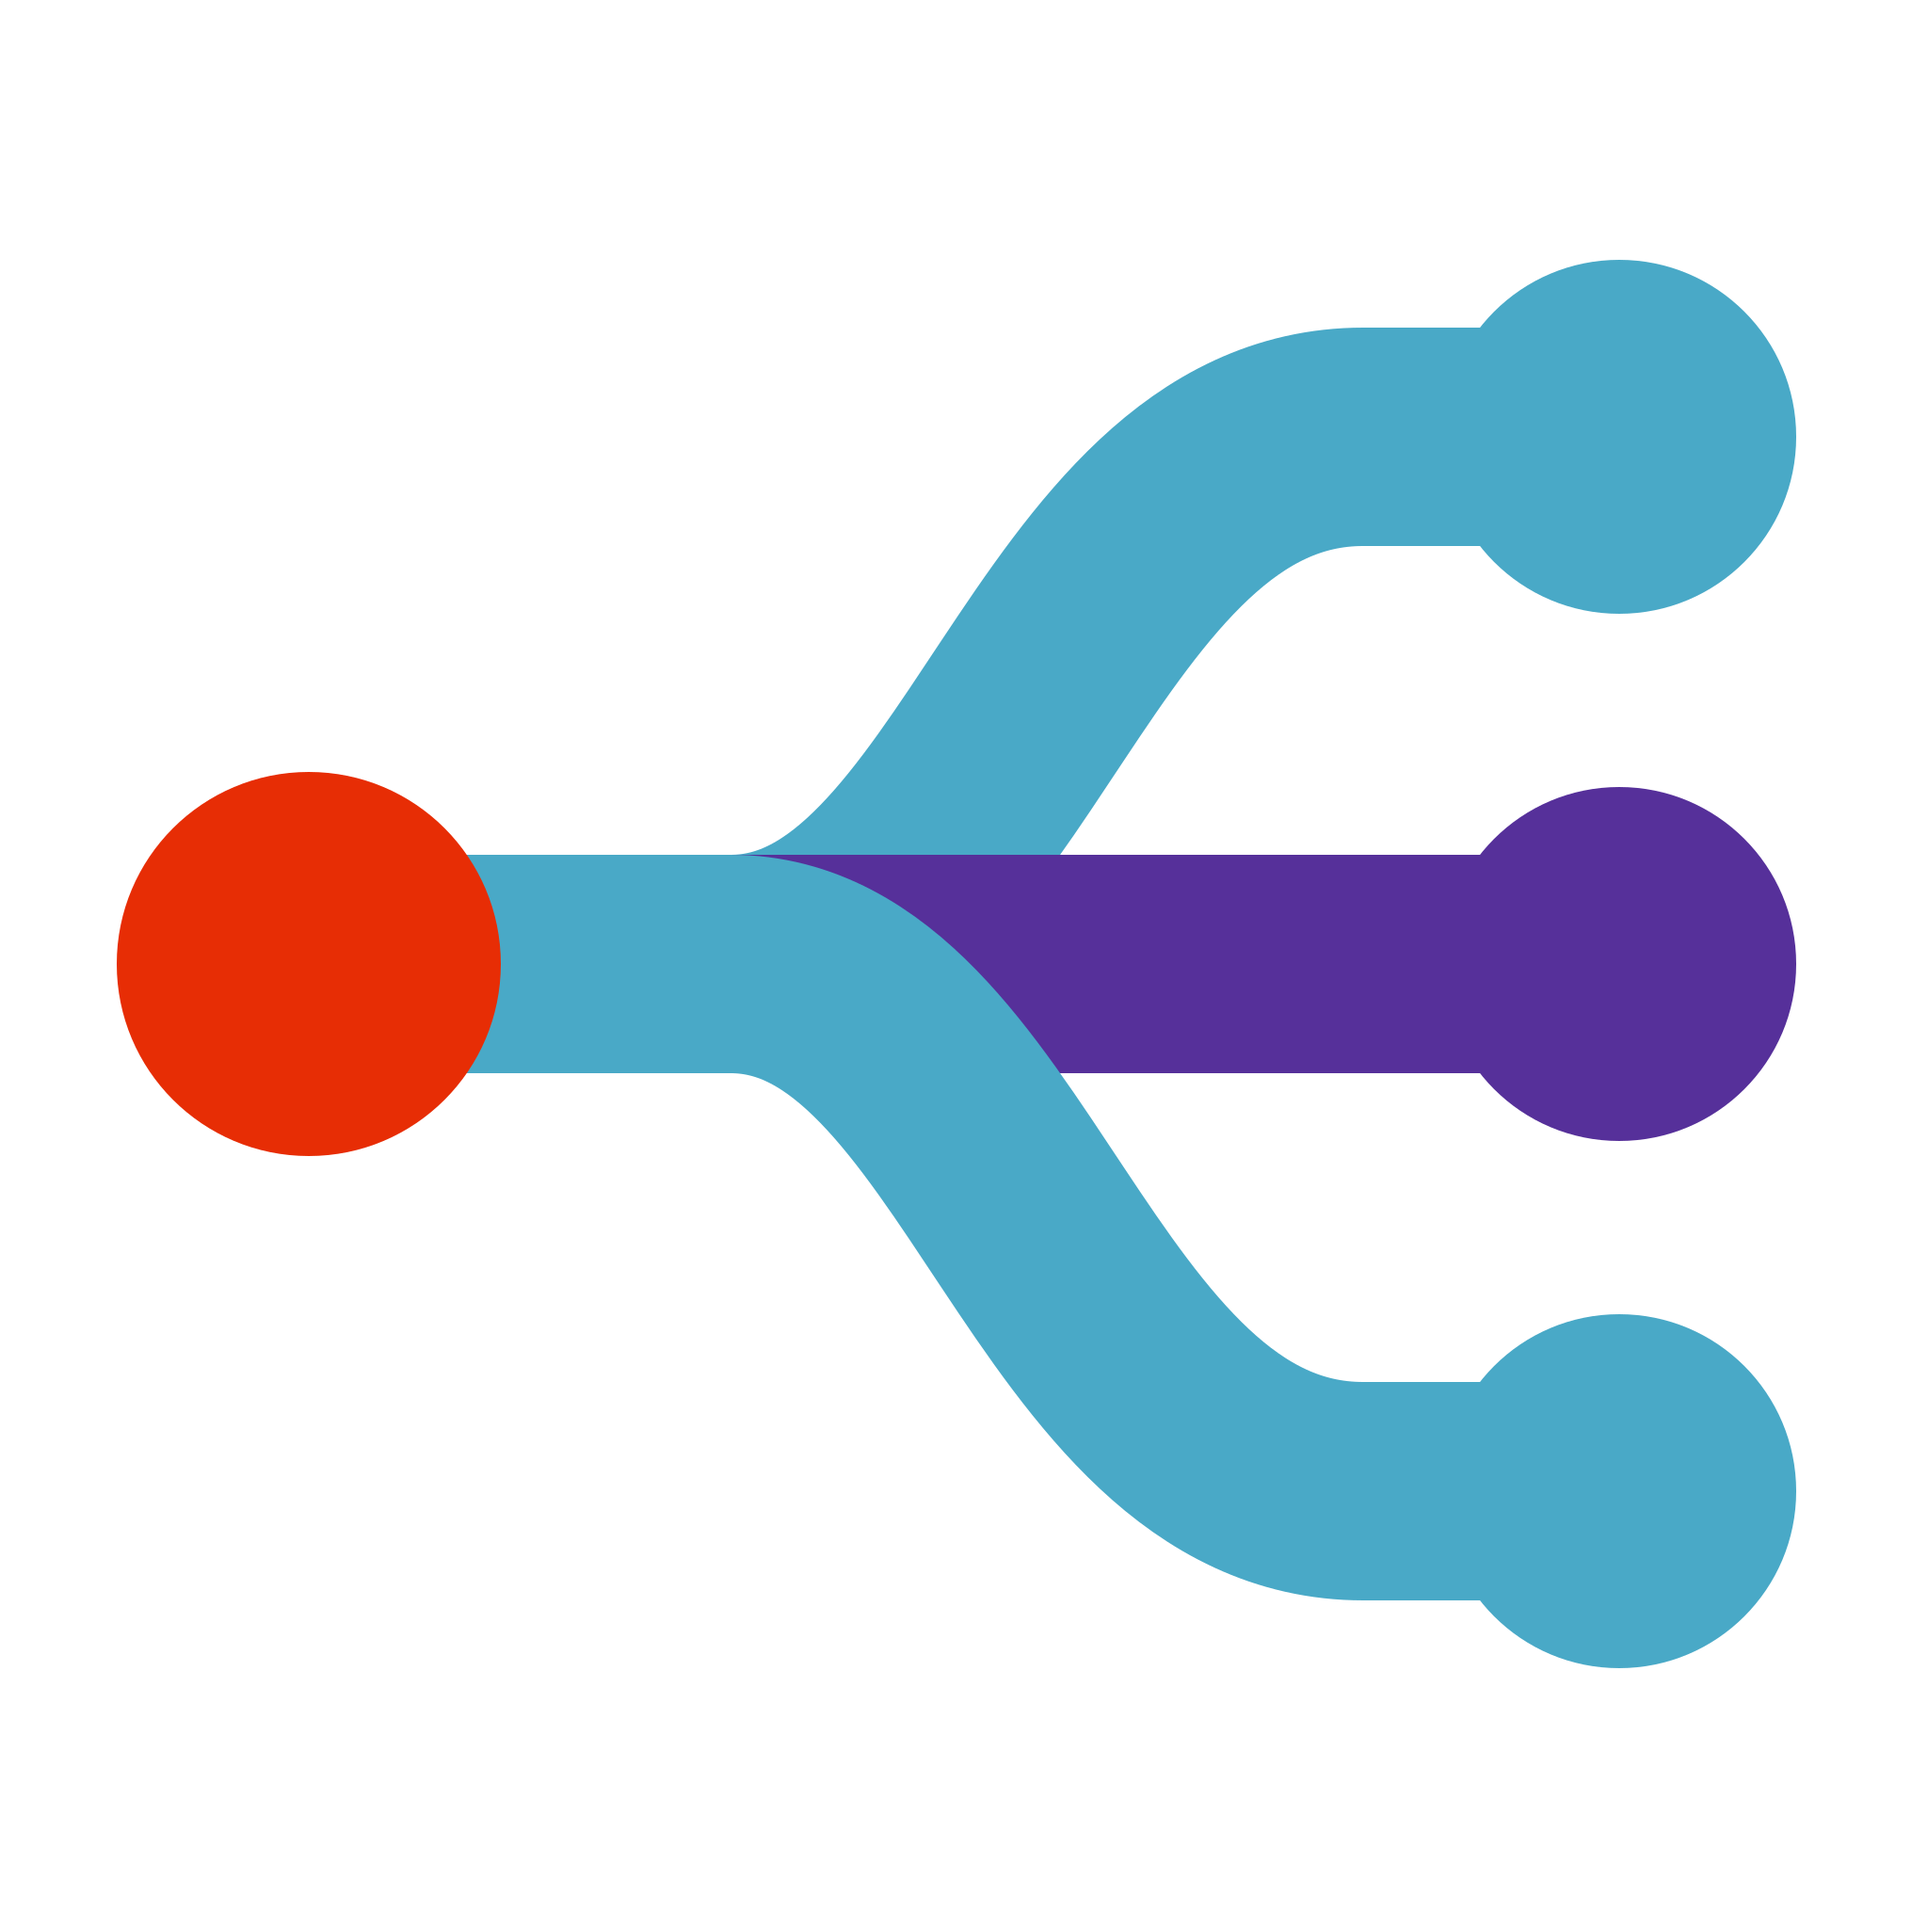
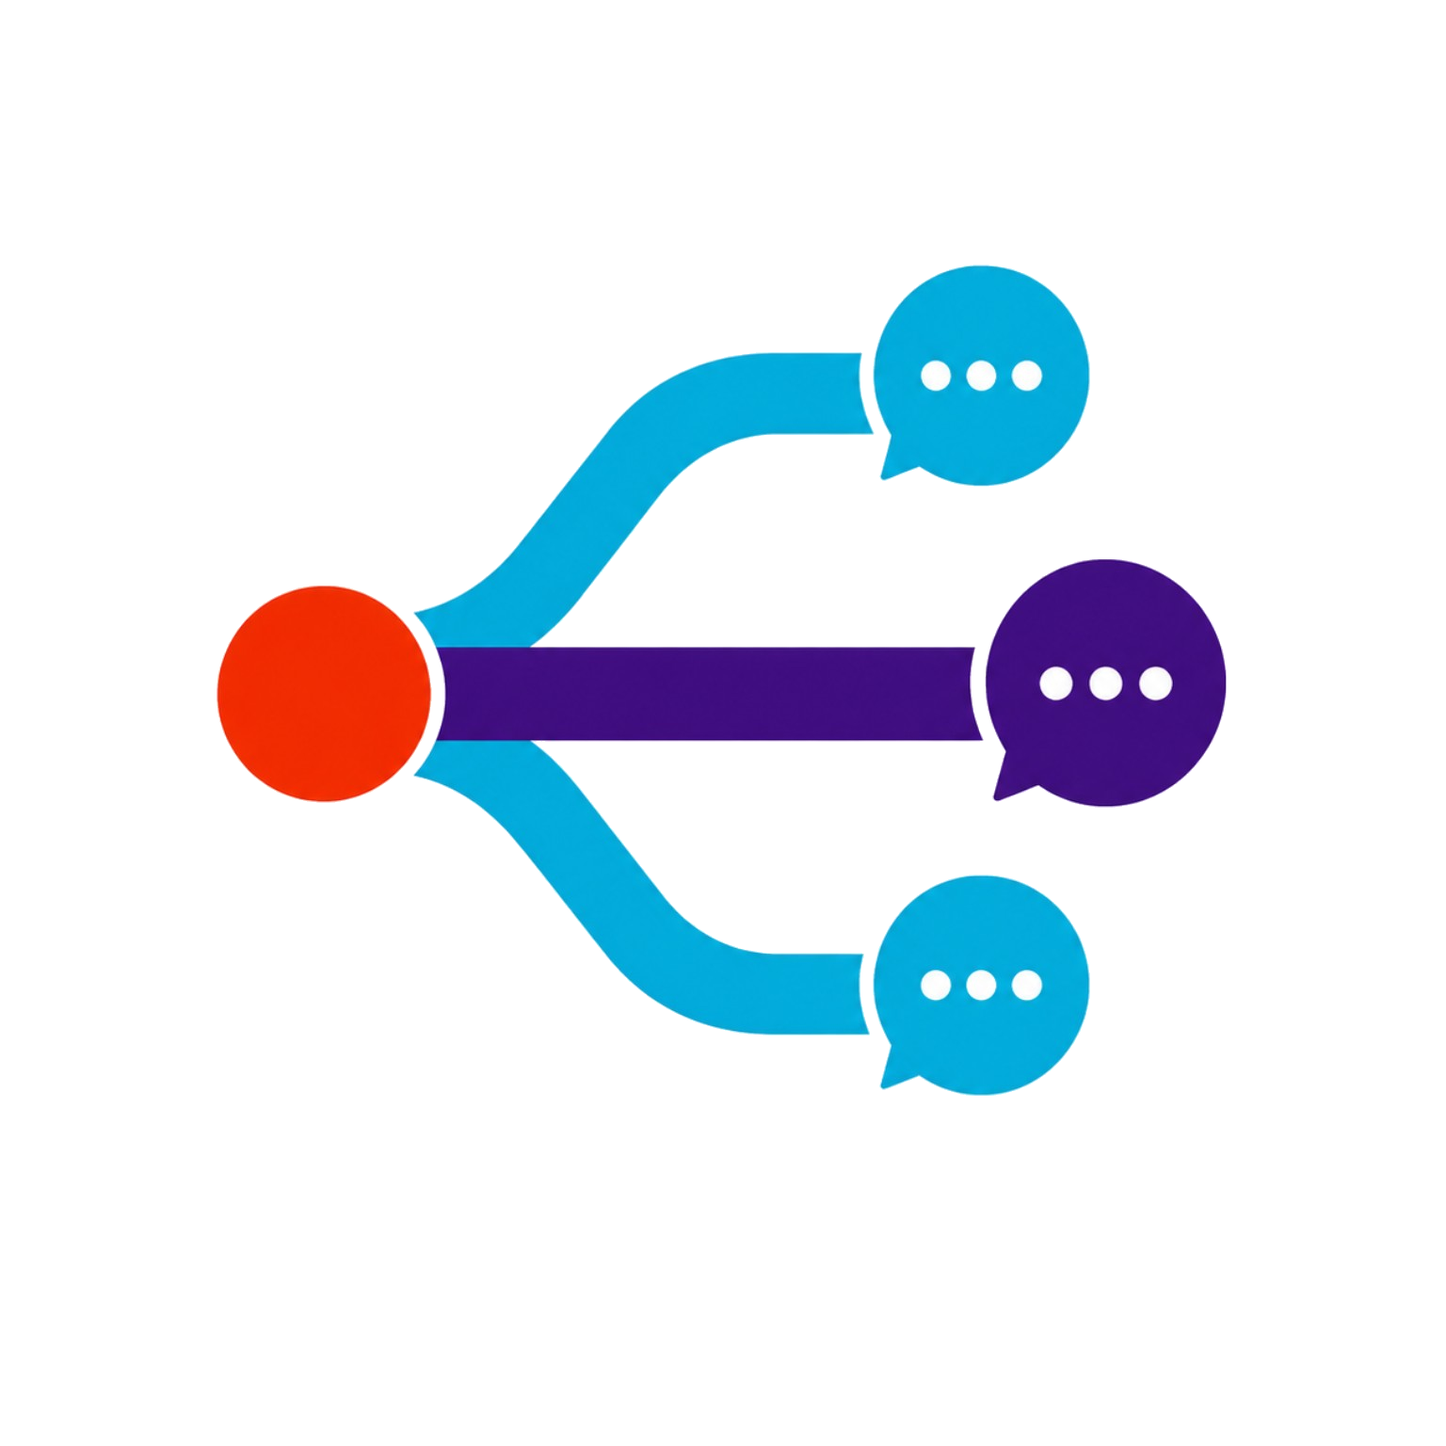
fix: use approved Athena conversation mark

Changed region(s): [[0.0625, 0.125, 0.9375, 0.875]]

diff --git a/assets/brand/README.md b/assets/brand/README.md
@@ -1,28 +1,22 @@
 # Metis and Athena brand assets
 
-This directory contains the canonical brand assets for Metis and Athena.
+This directory contains the approved raster brand assets supplied for Metis and Athena.
 
 ## Asset names
 
-- `*-logo.svg`: full lockup (symbol and wordmark), preferred for web and product UI.
-- `*-mark.svg`: standalone symbol, preferred for avatars, favicons and compact UI.
+- `*-logo.png`: approved full lockup on its original light background.
+- `*-mark.png`: approved standalone symbol on its original light background.
 - `*-logo-transparent.png`: transparent raster export for documents and slides.
 - `*-mark-transparent.png`: transparent raster export for documents and slides.
 
 ## Relationship
 
-Metis is the controlled data service: multiple knowledge streams converge into one governed output. Athena is the conversational product built on Metis: one controlled source branches into the user-facing conversation. The mirrored symbols intentionally express this parent–daughter relationship.
+Metis is the controlled data service: multiple knowledge streams converge into one governed output. Athena is the conversational product built on Metis: one controlled source branches into three conversation endpoints. Athena's three endpoints are speech bubbles with three white dots; plain circular endpoints are not an approved Athena mark.
 
 ## Colours
 
-| Name | Hex | Use |
-| --- | --- | --- |
-| Navy | `#0A1B3A` | Wordmarks |
-| Cyan (Metis) | `#13A8D4` | Knowledge streams |
-| Cyan (Athena) | `#49A9C7` | Conversational branches |
-| Purple | `#56309A` | Governed knowledge |
-| Orange-red | `#E72D05` | Controlled output / source |
+The supplied artwork is the colour authority. Values should be sampled from those files when a future vector master is professionally prepared; do not substitute approximate palette values.
 
 ## Usage
 
-Keep the symbol proportions and colours unchanged. Maintain clear space of at least one endpoint radius around every asset. Do not add shadows, outlines, gradients or background shapes. Use the SVG files in applications whenever possible; the PNG files are exports, not editing masters.
+Keep the supplied symbol geometry, proportions, colour treatment and wordmarks unchanged. Maintain clear space of at least one endpoint radius around every asset. Do not redraw the endpoints or replace Athena's speech bubbles with circles. Use the transparent PNG exports where no background is desired. A true vector master should only be added after professional tracing and visual approval.
